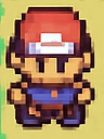
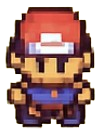
refactor(LocationScreen): delete useless line and change image of hero

diff --git a/src/main/java/com/internshipquest/screens/LocationScreen.java b/src/main/java/com/internshipquest/screens/LocationScreen.java
@@ -10,8 +10,6 @@ import com.badlogic.gdx.graphics.g2d.BitmapFont;
 import com.internshipquest.InternshipQuestGame;
 import com.internshipquest.model.*;
 import com.internshipquest.model.activity.AActivity;
-import com.internshipquest.model.activity.ActivityFactory;
-import com.internshipquest.utils.SoundManager;
 
 import java.util.ArrayList;
 import java.util.List;
@@ -24,7 +22,6 @@ public class LocationScreen implements Screen {
     private AHero hero;
 
     private ALieuVisitable lieu;
-    private Maison maison;
     private Texture background;
     private BitmapFont font;
     private List<AActivity> activities = new ArrayList<>();
@@ -49,8 +46,11 @@ public class LocationScreen implements Screen {
         if (location.getName().equals("FitnessClub")) {
             lieu = new FitnessClub(game);
         }
-        if (location.getName().equals("Maison")) {
+        if (location.getName().equals("Your House")) {
             lieu = new Maison(game);
+        }
+        if (location.getName().equals("Clover Field")) {
+            lieu = new CloverField(game);
         }
 
         font = new BitmapFont();
@@ -69,8 +69,11 @@ public class LocationScreen implements Screen {
         if (location.getName().equals("FitnessClub")) {
             background = new Texture(Gdx.files.internal("assets/images/gym_background.png"));
         }
-        if (location.getName().equals("Maison")) {
+        if (location.getName().equals("Your House")) {
             background = new Texture(Gdx.files.internal("assets/images/maison_background.png"));
+        }
+        if (location.getName().equals("Clover Field")) {
+            background = new Texture(Gdx.files.internal("assets/images/maison_background.png")); // image à générer
         }
         // lance la musique quand on rentre dans un lieu
         if (lieu != null) {
@@ -116,24 +119,16 @@ public class LocationScreen implements Screen {
                 actions.clear();
                 int yPos = 700;
 
-                // On détermine quelles activités charger selon le lieu
-                if (lieu instanceof FitnessClub) {
-                    activities = ActivityFactory.getFitnessActivities(lieu);
-                } else if (lieu instanceof Maison) {
-                    activities = ActivityFactory.getMaisonActivities();
-                }
+            // On charge les activités qui sont défini dans les classe lieu
+            activities = lieu.getActivities();
+
 
                 // Boucle unique pour créer les boutons d’action
                 for (int i = 0; i < activities.size(); i++) {
                     final int index = i;
                     AActivity activity = activities.get(i);
-
                     addAction((i + 1) + ". " + activity.getName(), 200, yPos - i * 50,() -> {
-                                if (lieu instanceof FitnessClub club) {
-                                    club.performActivity(index, hero, day);
-                                } else if (lieu instanceof Maison maison) {
-                                    maison.performActivity(index, hero, day);
-                                }
+                                lieu.performActivity(index, hero, day);
                             }
                     );
                 }

diff --git a/src/main/java/com/internshipquest/screens/WorldMapScreen.java b/src/main/java/com/internshipquest/screens/WorldMapScreen.java
@@ -35,12 +35,12 @@ public class WorldMapScreen implements Screen {
         this.cityMap = new CityMapRenderer(Constants.WINDOW_WIDTH, Constants.WINDOW_HEIGHT);
         // x , y largeur hauteur
         locations.add(new Location("Industrial Zone", 64, 704, 448, 256));
-        locations.add(new Location("Clover Fields", 554, 720, 160, 160));
+        locations.add(new Location("Clover Field", 554, 720, 160, 160));
         locations.add(new Location("Bar", 768, 720, 224, 128));
-        locations.add(new Location("magasin", 96, 352, 224, 224));
+        locations.add(new Location("Store", 96, 352, 224, 224));
         locations.add(new Location("FitnessClub", 640, 352, 256, 256));
-        locations.add(new Location("Marabou", 928, 352, 256, 256));
-        locations.add(new Location("Maison", 96, 128, 160, 160));
+        locations.add(new Location("Sorcerer", 928, 352, 256, 256));
+        locations.add(new Location("Your House", 96, 128, 160, 160));
         locations.add(new Location("Epitech", 992, 720, 256, 128));
     }
 
@@ -67,11 +67,11 @@ public class WorldMapScreen implements Screen {
 
             String message;
             if (hero.getCurrentLocation() == hoveredLocation) {
-                message = hoveredLocation.getName() + " - Cliquez pour entrer";
+                message = hoveredLocation.getName() + " - Click to enter";
             } else if (hero.isMoving()) {
-                message = "En déplacement...";
+                message = "While traveling...";
             } else {
-                message = hoveredLocation.getName() + " - Cliquez pour vous déplacer";
+                message = hoveredLocation.getName() + " - Click to move";
             }
 
 

diff --git a/src/main/java/com/internshipquest/model/AHero.java b/src/main/java/com/internshipquest/model/AHero.java
@@ -78,20 +78,24 @@ abstract public class AHero {
         this.money = money;
         this.energy = energy;
         this.isMoving = false;
-        this.moveSpeed = 200.0f;
+        this.moveSpeed = 400.0f;
         this.currentLocation = null;
         this.targetLocation = null;
         this.pathWaypoints = new ArrayList<>();
         this.currentWaypointIndex = 0;
         this.name = name;
-
-
-//        this.x = 100;
-//        this.y = 100;
-
         this.texture = texture;
     }
 
+    public void newEnergy(int endurance){
+        this.setEnergy(Math.round(endurance * 1.5f));
+    };
+
+
+    // public abstract Object postuler(Entreprise entreprise);
+
+
+    // fonction deplacement
     public void update(float delta) {
         if (!isMoving || pathWaypoints.isEmpty()) {
             return;
@@ -249,12 +253,7 @@ abstract public class AHero {
         batch.draw(texture,x,y,40,40);
     }
 
-    public void newEnergy(int endurance){
-        this.setEnergy(Math.round(endurance * 1.5f));
-    };
 
-
-    // public abstract Object postuler(Entreprise entreprise);
 
     public Location getCurrentLocation() {return currentLocation;}
     public boolean isMoving() {return isMoving;}

diff --git a/src/main/java/com/internshipquest/model/CloverField.java b/src/main/java/com/internshipquest/model/CloverField.java
@@ -1,0 +1,36 @@
+package com.internshipquest.model;
+
+import com.internshipquest.InternshipQuestGame;
+import com.internshipquest.model.activity.AActivity;
+import com.internshipquest.model.activity.ActivityFactory;
+import com.internshipquest.utils.SoundManager;
+
+import java.util.List;
+
+public class CloverField extends ALieuVisitable {
+
+
+    public CloverField(InternshipQuestGame game) {
+        super(game);
+        this.openHour = 0;
+        this.closedHour = 24;
+        this.openOnWeekends = true;
+        activities = ActivityFactory.getCloverFieldActivities();
+    }
+
+    @Override
+    public void onEnter() {
+        // nom, loop or not, volume %
+        SoundManager.playMusic("house", true, 0.4f); // need change musique
+    }
+
+    @Override
+    public void onExit() {
+        SoundManager.stopMusic();
+    }
+}
+
+
+
+
+

diff --git a/src/main/java/com/internshipquest/model/Chad.java b/src/main/java/com/internshipquest/model/Chad.java
@@ -8,7 +8,7 @@ public class Chad extends AHero{
     // int skills, int motivation, int money, int energy, Texture texture)
     public Chad(){
       
-        super("zeldi",35, 20, 5, 0, 50, 500, 100, new Texture("assets/Chad.png"));
+        super("zeldi",35, 20, 5, 0, 50, 50, 100, new Texture("assets/Chad.png"));
     }
 
 

diff --git a/src/main/java/com/internshipquest/model/Hero.java b/src/main/java/com/internshipquest/model/Hero.java
@@ -8,7 +8,7 @@ public class Hero extends AHero{
     // int skills, int motivation, int money, int energy, Texture texture)
     public Hero(){
       
-        super("zeldo",35, 20, 5, 0, 50, 500, 100, new Texture("assets/Hero.png"));
+        super("zeldo",35, 20, 5, 0, 50, 50, 100, new Texture("assets/Hero.png"));
     }
 
 

diff --git a/src/main/java/com/internshipquest/model/Nerd.java b/src/main/java/com/internshipquest/model/Nerd.java
@@ -8,7 +8,7 @@ public class Nerd extends AHero{
     // int skills, int motivation, int money, int energy, Texture texture)
     public Nerd(){
       
-        super("zeldu",35, 20, 5, 0, 50, 500, 100, new Texture("assets/Nerd.png"));
+        super("zeldu",35, 20, 5, 0, 50, 55, 100, new Texture("assets/Nerd.png"));
     }
 
 

diff --git a/src/main/java/com/internshipquest/model/activity/ActivityFactory.java b/src/main/java/com/internshipquest/model/activity/ActivityFactory.java
@@ -26,7 +26,7 @@ public class ActivityFactory {
         return list;
     }
 
-    public static List<AActivity> getCloverFieldsActivities() {
+    public static List<AActivity> getCloverFieldActivities() {
         List<AActivity> list = new ArrayList<>();
         list.add(new FindClover());
         list.add(new Rest());
